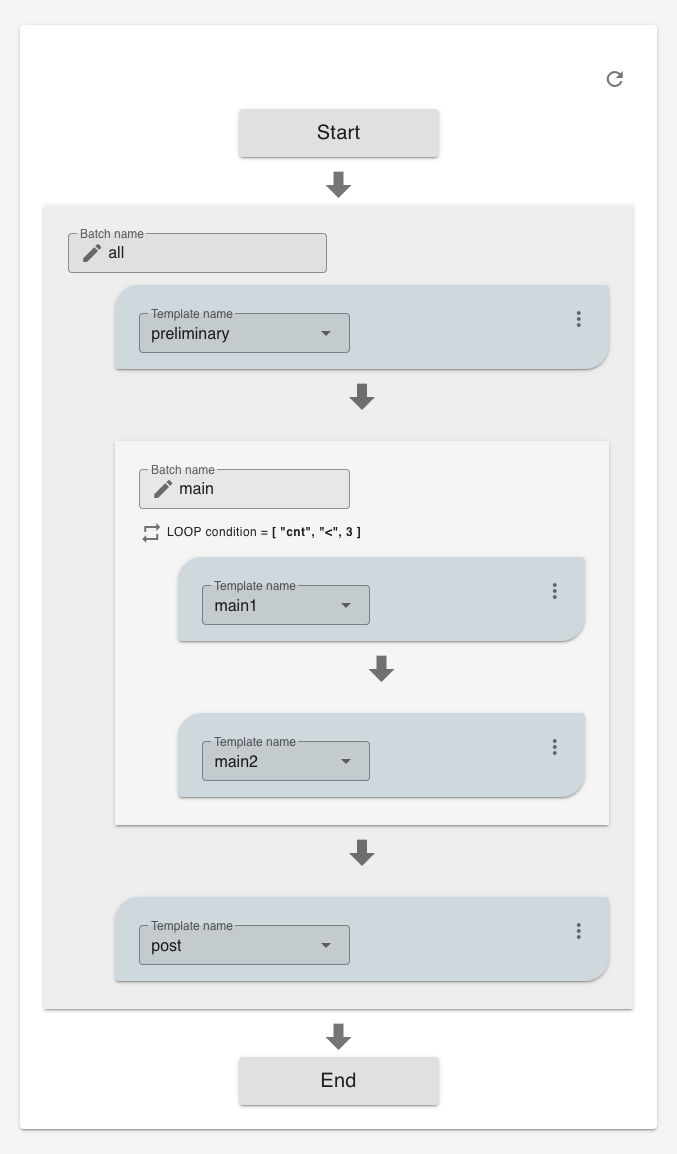
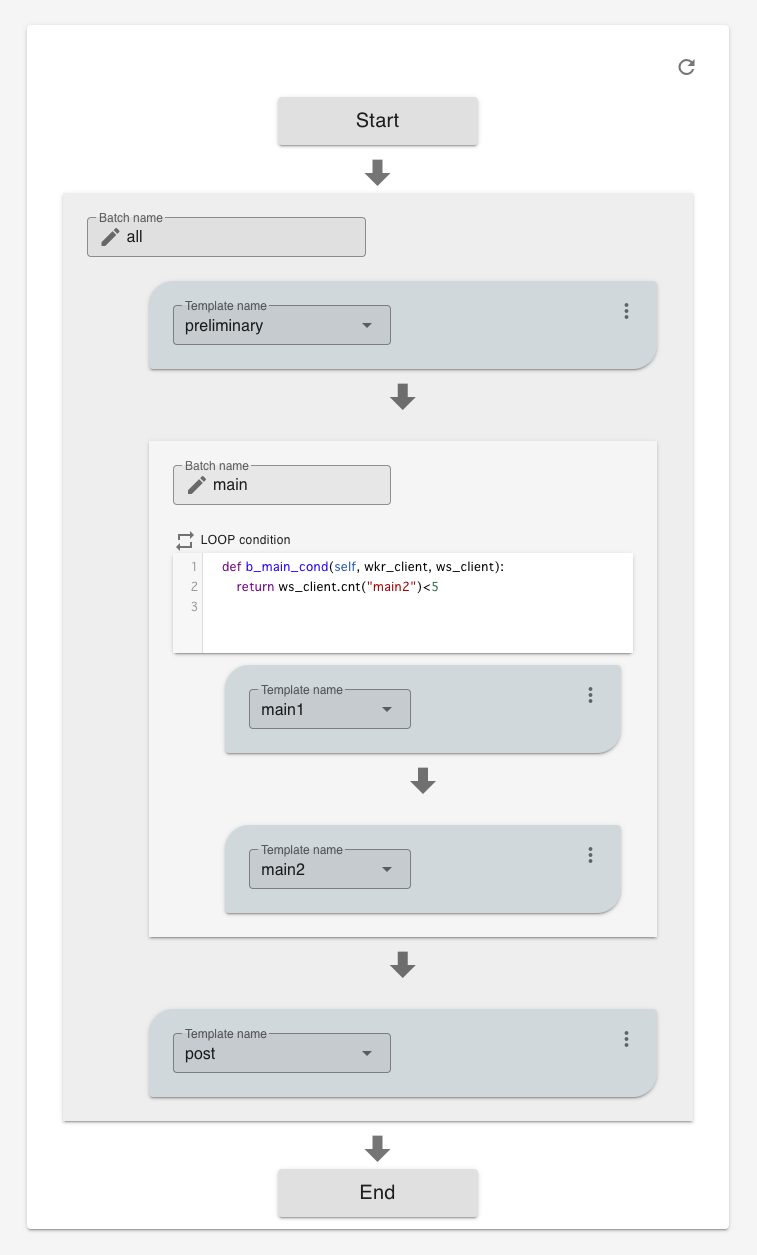
updated docs

diff --git a/docs/index.html b/docs/index.html
@@ -30,6 +30,9 @@ div.warning {
 div.warning table tr:nth-child(2n+1) {
     background-color: white;
 }
+h3 {
+    border-bottom: 1px solid rgba(0,0,0,.07);
+}
 h3.h-class, h4.h-class {
     font-weight: normal;
 }
@@ -53,6 +56,7 @@ h3.h-class, h4.h-class {
       name: '',
       repo: '',
       loadSidebar: true,
+      loadNavbar: true,
       subMaxLevel: 2,
       alias: {
         '/.*/_sidebar.md': '/_sidebar.md'

diff --git a/projects/test0812/scheme.py b/projects/test0812/scheme.py
@@ -11,25 +11,31 @@ class ProjectScheme(ProjectSchemeBase):
         self.show_title = False
         
     def define_flow(self):
-        t_pre = TemplateNode("pre1")
+        t_pre = TemplateNode("preliminary")
 
-        t_main4 = TemplateNode("main4", on_submit=self.t_main4_on_submit)
-        t_main2 = TemplateNode("main2", statement=Statement.IF, condition=self.t_main2_cond, is_skippable=True)
+        #t_main4 = TemplateNode("main4", on_submit=self.t_main4_on_submit)
+        #t_main2 = TemplateNode("main2", statement=Statement.IF, condition=self.t_main2_cond, is_skippable=True)
+        #b_main = BatchNode("main", [t_main4, t_main2],
+        #                   statement=Statement.WHILE, condition=self.b_main_cond, is_skippable=True)
+        t_main4 = TemplateNode("main1")
+        t_main2 = TemplateNode("main2")
         b_main = BatchNode("main", [t_main4, t_main2],
                            statement=Statement.WHILE, condition=self.b_main_cond, is_skippable=True)
 
-        return BatchNode("all", children=[t_pre, b_main, TemplateNode("post2")])
+        t_post = TemplateNode("post")
 
-    def t_main4_on_submit(self, wkr_client, ws_client, ans, gt):
-        choice_correct = 1 if ans["choice"]==gt["choice"] else 0
-        wkr_client.add_member("choice_correct", choice_correct)
+        return BatchNode("all", children=[t_pre, b_main, t_post])
 
-    def t_main2_cond(self, wkr_client, ws_client): 
-        return wkr_client.cnt("main2")<3
+    #def t_main4_on_submit(self, wkr_client, ws_client, ans, gt):
+    #    choice_correct = 1 if ans["choice"]==gt["choice"] else 0
+    #    wkr_client.add_member("choice_correct", choice_correct)
 
-    def b_main_cond(self, wkr_client, ws_client):
-        if wkr_client.cnt("main")>=10: return False
+    def b_main_cond(self, wkr_client, ws_client): 
+        return ws_client.cnt("main2")<5
 
-        return True
-        #if (cc := ws_client.get_member("choice_correct")): accuracy = cc.count("1") / len(cc)
-        #return (not cc) or accuracy >= 0.8
+    #def b_main_cond(self, wkr_client, ws_client):
+    #    if wkr_client.cnt("main")>=10: return False
+
+    #    return True
+    #    #if (cc := ws_client.get_member("choice_correct")): accuracy = cc.count("1") / len(cc)
+    #    #return (not cc) or accuracy >= 0.8

diff --git a/docs/guide/ref_template.md b/docs/guide/ref_template.md
@@ -1,1 +1,113 @@
 # Template
+
+## File names and locations
+
+- Preview
+    - `tutti/projects/<project_name>/templates/Preview.vue`
+- Instruction
+    - `tutti/projects/<project_name>/templates/Instruction.vue`
+- Main Template
+    - `tutti/projects/<project_name>/templates/<template_name>/Main.vue`
+
+?> Preview and instruction files are created with `create_project` command, and the main template file is created with `create_template` command.
+
+## Preview & instruction
+
+The preview and instruction files, with a `.vue` extension, are basically [Vue.js' single file components](https://vuejs.org/v2/guide/single-file-components.html); you can thus not only write HTML collocate CSS and JavaScript in the files.
+
+For those who are not familiar to Vue.js' single file components, here's an example for the minimum code:
+
+```markup
+<!-- Works in both Preview.vue and Instruction.vue -->
+
+<template>
+    <div>
+        This is my test preview/instruction.
+    </div>
+</template>
+```
+
+Note that a whole HTML needs to be wrapped by `<template>`, as well as only one parent tag (*i.e.,* `<div>` in the above example) is allowed in the block.
+
+### Preview.vue
+
+At present, `Preview.vue` is a necessary page component for particularly when the project is deployed as Amazon Mechanical Turk HITs.
+A HIT "preview" page is what MTurk workers see when they actually be assigned and start the HIT, thereby better understanding what the HIT would request them to do.
+Typical preview pages contain the similar user interface shown during the task or detailed task instruction.
+Be sure to design this page component thoughtfully, since it is requesters' responsibility to instruct workers to get better results and for fair work.
+
+<img src="/_media/preview.gif" width="500" />
+
+### Instruction.vue
+
+`Instruction.vue` is another page component that helps workers get better sense of what needs to be done during the task (this is not limited to Amazon Mechanical Turk).
+There are two patterns where the instruction page components is shown to workers: i) automatically rendered in a floating dialog for workers who have never visited the project, and ii) rendered in a floating dialog when the worker clicked "See instruction" button in the project interface (the button is only visible when `ProjectScheme.instruction` is set to True).
+
+<img src="/_media/instruction.gif" width="500" />
+
+
+## Main Template
+
+### Vue Mixin
+
+All nanotask templates are required to import `nanoMixin` in the `<script>` block:
+
+```javascript
+import nanoMixIn from "@/mixins/nano";
+export default {
+    mixins: [nanoMixIn],
+    ...
+```
+
+This `nanoMixIn` module contains a set of Tutti-defined [Vue's options](https://vuejs.org/v2/api/#Options-Data) to allow requesters to send and receive Tutti-relevant data with the backend server.
+
+#### data
+
+- `nano.ans`
+  - A writable object which stores worker's answers sent to Tutti's backend server when `submit()` is called.
+    Its format should be like:
+    ```json
+    {
+        "mykey1": "some string",
+        "mykey2": 12345,
+        ...
+    }
+    ```
+- `nano.props`
+  - A readable object which contains "**nano props**", a set of dynamic contents in the template for a loaded nanotask, which is uploaded with `UploadNanotasks` Event.
+- `defaultProps`
+  - A readable/writable object for placeholder values when no valid value for a child of `nano.props` was found, such as when no assignable nanotask could be loaded or an unknown child key value was specified.
+    To initialize the object, just create data in the template file like:
+    ```javascript
+    <script>
+    import nanoMixIn from "@/mixins/nano";
+    export default {
+        mixins: [nanoMixIn],
+        data: () => ({
+            defaultNanoProps: {
+                "mystring": "my default value",
+                "myurl": "https://some.default.url"
+            }
+        })
+    };
+    </script>
+    ```
+    and the values will automatically replace `nano.props.mystring` and `nano.props.myurl` automatically when nano props are not available.
+
+#### computed property
+
+- `canSubmit`
+  - A helper property that returns a boolean value whether all required answer fields are filled (*c.f.,* `v-nano`).
+
+#### method
+
+- `submit()`
+  - A method to finish the current template and step forward to the next template node.
+
+#### directives
+
+- `v-nano`
+  - Adding `v-nano` directive to input components makes its `v-model`-binded data also synchronized to workers' answer data which is to be sent to Tutti's server.
+    If data is bound the `v-nano` directive, the string specified for `v-model` is registered as a key of `nano.ans` object.
+  - `.required` modifier is allowed for use to make the input to be a required field (this effects the return value of `canSubmit`).
+

diff --git a/docs/tutorial/flow.md b/docs/tutorial/flow.md
@@ -16,35 +16,40 @@ Tutti's **flow**-designing strategy enables you to build as complex and detailed
 ### Steps
 
 1. On the left menu of your Tutti browser console, click "Task Flow". At this point you should only see the boxes named "Start" and "End" with a couple of down-arrows.
-2. Open the flow configuration file for your project `first-project`, which is located at `tutti/projects/first-project/flow.py`.
+2. Open the scheme configuration file for your project `first-project`, which is located at `tutti/projects/first-project/scheme.py`.
 
-  !> It is recommended to boot another terminal session or restart Tutti with `docker-compose up -d` to keep Tutti running.
+3. Edit & save `scheme.py` as follows:
 
-3. Edit & save `flow.py` as follows:
+```python
+from libs.scheme import ProjectSchemeBase
+from libs.scheme.flow import BatchNode, TemplateNode, Statement
 
-  ```flow.py
-  from libs.node import TemplateNode, BatchNode, Statement
-  
-  class TaskFlow:
-      def __init__(self):
-          t_pre = TemplateNode("preliminary")
-  
-          t_main1 = TemplateNode("main1")
-          t_main2 = TemplateNode("main2")
-          b_main = BatchNode("main",
-                             [t_main1, t_main2],
-                             statement=Statement.WHILE,
-                             cond=("cnt", "<", 5))
+class ProjectScheme(ProjectSchemeBase):
 
-          t_post = TemplateNode("post")
-  
-          self.root = BatchNode("all", children=[t_pre, b_main, t_post])
+    ...
+
+    def define_flow(self):
+        t_pre = TemplateNode("preliminary")
+
+        t_main1 = TemplateNode("main1")
+        t_main2 = TemplateNode("main2")
+        b_main = BatchNode("main",
+                           [t_main1, t_main2],
+                           statement=Statement.WHILE,
+                           condition=self.b_main_cond)
+
+        t_post = TemplateNode("post")
+
+        return BatchNode("all", children=[t_pre, b_main, t_post])
+
+    def b_main_cond(self, wkr_client, ws_client): 
+        return ws_client.cnt("main2")<5
   ```
 
 4. Go back to the browser console and click <svg width="24" height="24" viewBox="0 0 24 24"><path d="M17.65,6.35C16.2,4.9 14.21,4 12,4A8,8 0 0,0 4,12A8,8 0 0,0 12,20C15.73,20 18.84,17.45 19.73,14H17.65C16.83,16.33 14.61,18 12,18A6,6 0 0,1 6,12A6,6 0 0,1 12,6C13.66,6 15.14,6.69 16.22,7.78L13,11H20V4L17.65,6.35Z" /></svg> to reload the flow.
   You're all set if a flow chart like below is rendered in the page.
 
-  !> If the flow chart is not loaded, there might be some syntax or variable error in the `flow.py` file.
+  !> If the flow chart is not loaded, there might be some syntax or variable error in the `scheme.py` file.
 
   <img src="./_media/flow.png" width="500" />
 
@@ -60,16 +65,16 @@ The gray rectangle cards represent **batches**, or task groups to which certain 
 Once the annotation task is started by a user, `preliminary` task is shown to the user.
 After submitting the task, the batch of the main tasks starts; `main1` is shown first, followed by `main2` when `main1` is submitted.
 What happens after that?
-As the "**LOOP condition**" indicates in the chart, the user returns to `main1` and then to `main2` -- and this will be continued for a total of three times.
+As the "**LOOP condition**" indicates in the chart, the user returns to `main1` and then to `main2` -- and this will be continued for a total of five times.
 Lastly, `post` task is assigned; when it is submitted, the user ends the task session.
 
 ### Flow configuration API
 
 `flow.py` just expresses the same flow structure described above, just like building blocks of `TemplateNode` and `BatchNode`.
 The both types of nodes generally takes the same set of arguments, such as their names and if/while statement and conditions, while `BatchNode` particularly takes multiple `TemplateNode`s as its children.  
-Note that the whole flow also needs to be wrapped by a largest batch and then pass it to `self.root` for the `TaskFlow` class to function.
+Note that the whole flow also needs to be wrapped by a largest batch and then return it from `define_flow()`.
 
-For further details of the flow configuration API, see [Programming Reference](./guide/ref.md).
+For further details of the flow configuration API, see [Programming Reference>Project Scheme](./guide/ref_scheme).
 
 ## Test run with static templates
 

diff --git a/docs/tutorial/project-template.md b/docs/tutorial/project-template.md
@@ -131,6 +131,4 @@ In addition to the programming strategies of Vue.js and Vuetify, there are some 
 - `canSubmit`: a binary, computed property that indicate whether all the required fields registered with `v-nano.required` has a valid input value. This can be effectively used with a submit button to toggle its disability.
 - `nanoMixIn`: a Vue mix-in module that contains the essential data, methods, and hooks used in templates in Tutti projects. This is always necessary to be included and loaded in the file.
 
-For further information and other programming rules, see [Programming Reference](/guide/ref).
-
-?> Since Tutti runs Vue CLI dev server for the frontend, your edit in the code will be instantly reloaded and reflected without refreshing the browser ("[Hot-Module-Replacement](https://cli.vuejs.org/guide/cli-service.html#vue-cli-service-serve)").
+For further information and other programming rules, see [Programming Reference>Template](/guide/ref_template).

diff --git a/docs/guide/ref_scheme.md b/docs/guide/ref_scheme.md
@@ -1,13 +1,15 @@
 # Project Scheme
 
 
-### File name and location
+## File name and location
 
 - ```tutti/projects/<project_name>/scheme.py```
 
 ?> The file is automatically created with `create_project` command.
 
 !> Changes in the project scheme will NOT be reloaded until you run `LoadFlow` DUCTS event or click <svg width="24" height="24" viewBox="0 0 24 24"><path d="M17.65,6.35C16.2,4.9 14.21,4 12,4A8,8 0 0,0 4,12A8,8 0 0,0 12,20C15.73,20 18.84,17.45 19.73,14H17.65C16.83,16.33 14.61,18 12,18A6,6 0 0,1 6,12A6,6 0 0,1 12,6C13.66,6 15.14,6.69 16.22,7.78L13,11H20V4L17.65,6.35Z" /></svg> icon in the Task Flow page in the console.
+
+## Classes
 
 <h3 id="class_libs.scheme.ProjectScheme" class="h-class">class libs.scheme.<b>ProjectScheme</b></h3>
 

diff --git a/docs/_sidebar.md b/docs/_sidebar.md
@@ -1,4 +1,4 @@
-<img src="./_media/tutti_logo.png" />
+<img src="./_media/tutti_logo.png" width="150" />
 
 - [Home](/)
 - [Installation](installation.md)
@@ -12,7 +12,7 @@
   - ~~[Tutti Partner-Sourcing](platform/partner.md)~~
 - **Detailed Guide**
   - [Programming Reference](guide/ref.md)
-    - [- Project Scheme](guide/ref_scheme.md)
-    - [- Template](guide/ref_template.md)
+    - [- Project Scheme (Python)](guide/ref_scheme.md)
+    - [- Template (Vue.js)](guide/ref_template.md)
   - [DUCTS Events](guide/ducts.md)
   - [Troubleshooting](guide/troubleshooting.md)

diff --git a/docs/tutorial/answer.md b/docs/tutorial/answer.md
@@ -10,9 +10,6 @@ Now let's check what you've submitted so far as a worker!
 
 ### Useful data store client tools
 
-- MongoDB Client
-  - [MongoDB Compass](https://www.mongodb.com/try/download/compass)
-
 - Redis Client
   - redis-cli
     - brew install redis

diff --git a/docs/guide/ref.md b/docs/guide/ref.md
@@ -1,6 +1,6 @@
 # Programming Reference
 
-- ### [Project Scheme](guide/ref_scheme.md)
+- #### [Project Scheme](guide/ref_scheme.md)
 
-- ### [Template](guide/ref_template.md)
+- #### [Template](guide/ref_template.md)
 

diff --git a/docs/_navbar.md b/docs/_navbar.md
@@ -1,0 +1,3 @@
+* Languages
+    * [English](/)
+    * [日本語](/ja/)
